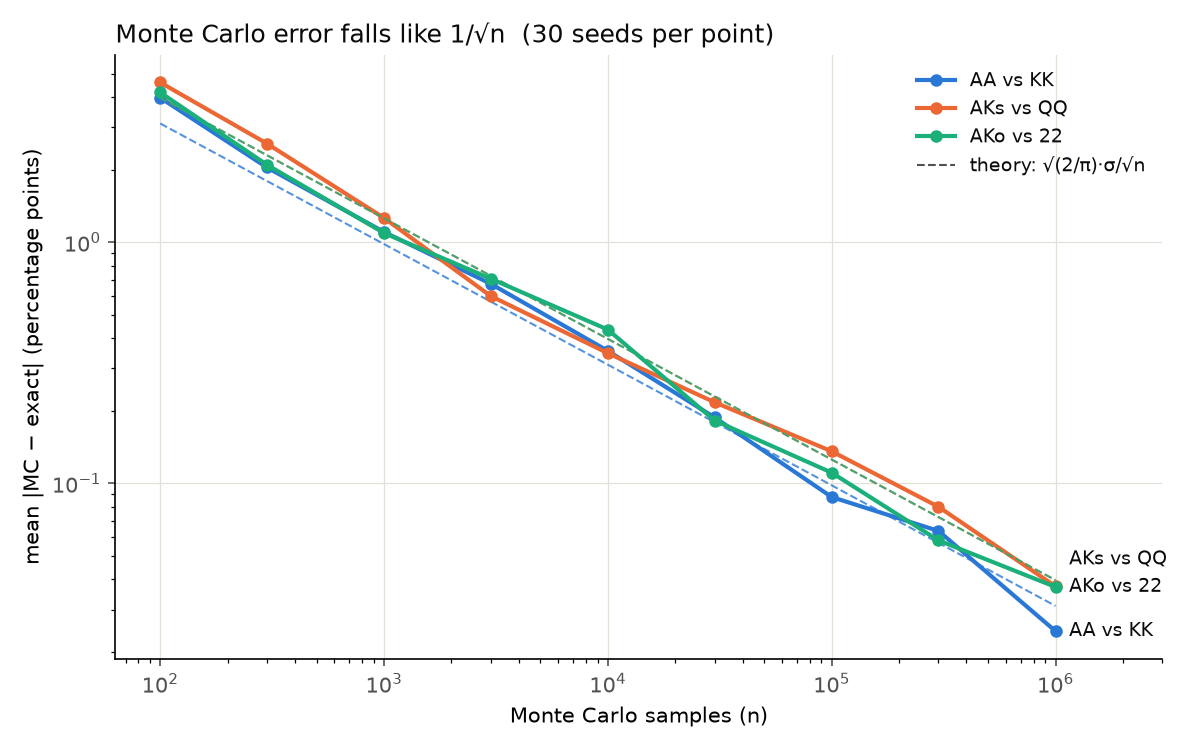
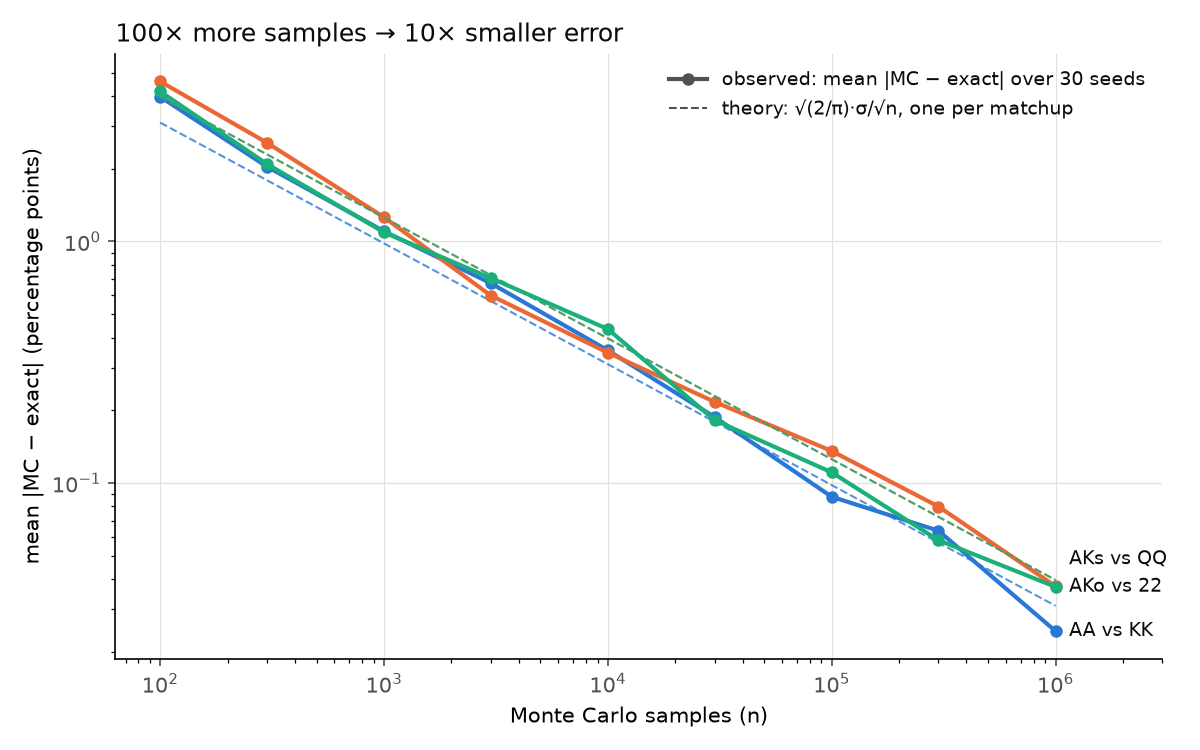
Convergence figure: takeaway title and a legend for the line styles
The legend listed the matchups (already labelled at the line ends) and a
grey theory line that matched none of the coloured dashed lines. It now
explains observed vs theory; the title states the 1/sqrt(n) takeaway.

diff --git a/scripts/convergence.py b/scripts/convergence.py
@@ -62,15 +62,17 @@ def main():
     for (_, _, label), color, observed, y in zip(MATCHUPS, COLORS, mean_error_pp, label_y):
         theory_pp = 100 * np.sqrt(2 / np.pi) * exact[label][1] / np.sqrt(n)
         ax.plot(n, theory_pp, color=color, lw=1, ls="--", alpha=0.8)
-        ax.plot(n, observed, color=color, lw=2, marker="o", ms=5, label=label)
+        ax.plot(n, observed, color=color, lw=2, marker="o", ms=5)
         ax.annotate(label, (n[-1] * 1.15, y), va="center", fontsize=9, color=INK)
         print(f"{label}: mean |error| at n={SAMPLE_SIZES[-1]:,} = {observed[-1]:.4f} pp "
               f"(theory {theory_pp[-1]:.4f} pp)")
 
     ax.set(xscale="log", yscale="log", xlabel="Monte Carlo samples (n)",
            ylabel="mean |MC − exact| (percentage points)")
-    ax.set_title(f"Monte Carlo error falls like 1/√n  ({SEEDS} seeds per point)", loc="left", color=INK)
-    ax.plot([], [], color=MUTED, lw=1, ls="--", label="theory: √(2/π)·σ/√n")
+    ax.set_title("100× more samples → 10× smaller error", loc="left", color=INK)
+    # Matchups are labelled at the line ends, so the legend only explains the two line styles.
+    ax.plot([], [], color=MUTED, lw=2, marker="o", ms=5, label=f"observed: mean |MC − exact| over {SEEDS} seeds")
+    ax.plot([], [], color=MUTED, lw=1, ls="--", label="theory: √(2/π)·σ/√n, one per matchup")
     ax.legend(frameon=False, fontsize=9, labelcolor=INK)
     ax.grid(True, which="major", color=GRID, lw=0.6)
     ax.set_xlim(right=n[-1] * 3)  # room for the direct labels
